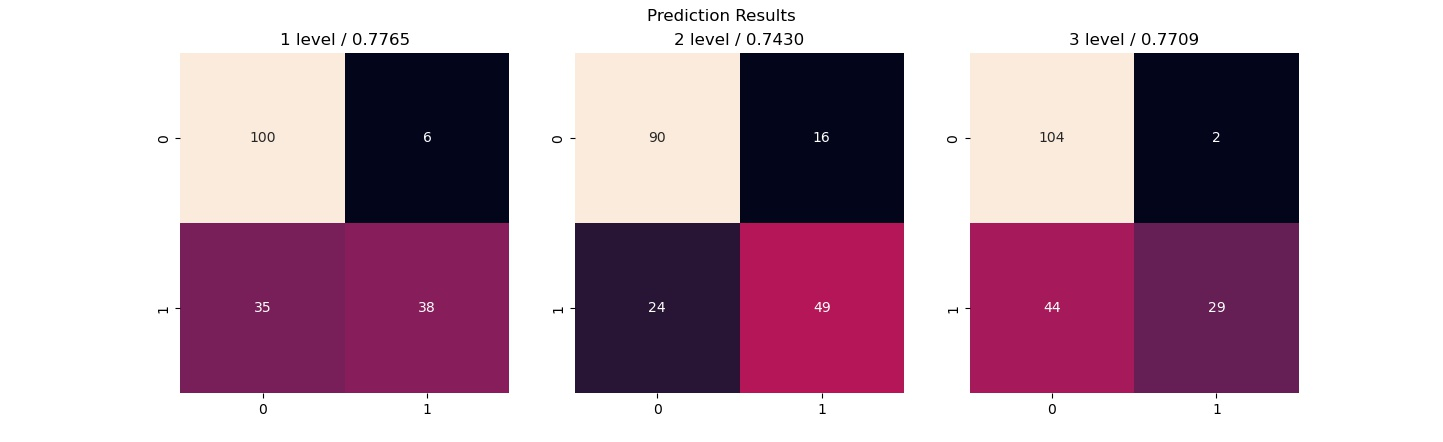
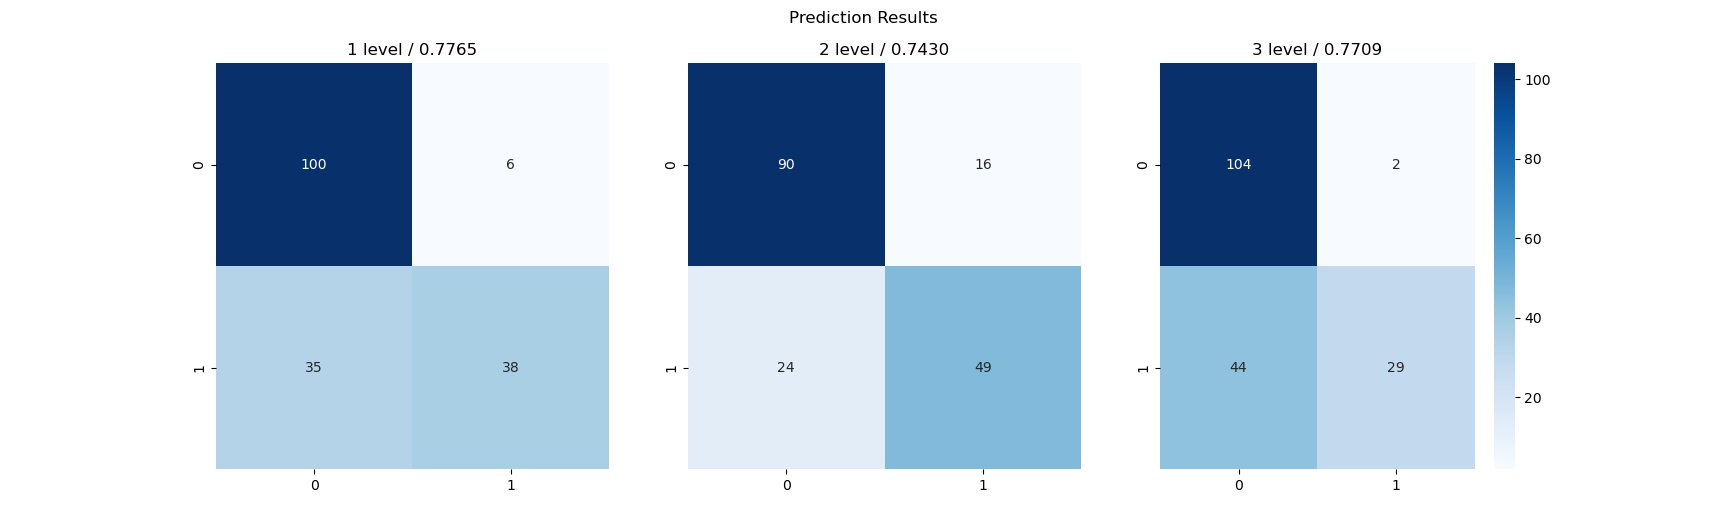
editing cbar of confusion matrix

diff --git a/baseline.py b/baseline.py
@@ -147,9 +147,9 @@ for i in range(1, 4):
     # Confusion Matrix
     cm.append(confusion_matrix(y_valid, clf.predict(X_valid)))
 
-fig, axn = plt.subplots(nrows=1, ncols=3, figsize=(9,9))
+fig, axn = plt.subplots(nrows=1, ncols=3, figsize=(16,9))
 for i, ax in enumerate(axn.flat):
-    sns.heatmap(cm[i-1], ax=ax, annot=True, fmt='d', cbar=i==4)
+    sns.heatmap(cm[i-1], ax=ax, annot=True, fmt='d', cmap='Blues', cbar=i==2)
     ax.set_title('%d level / %.4f' %(i+1, score_val[i]))
 fig.suptitle('Prediction Results')
 plt.savefig('Confusion Matrix.jpg')
